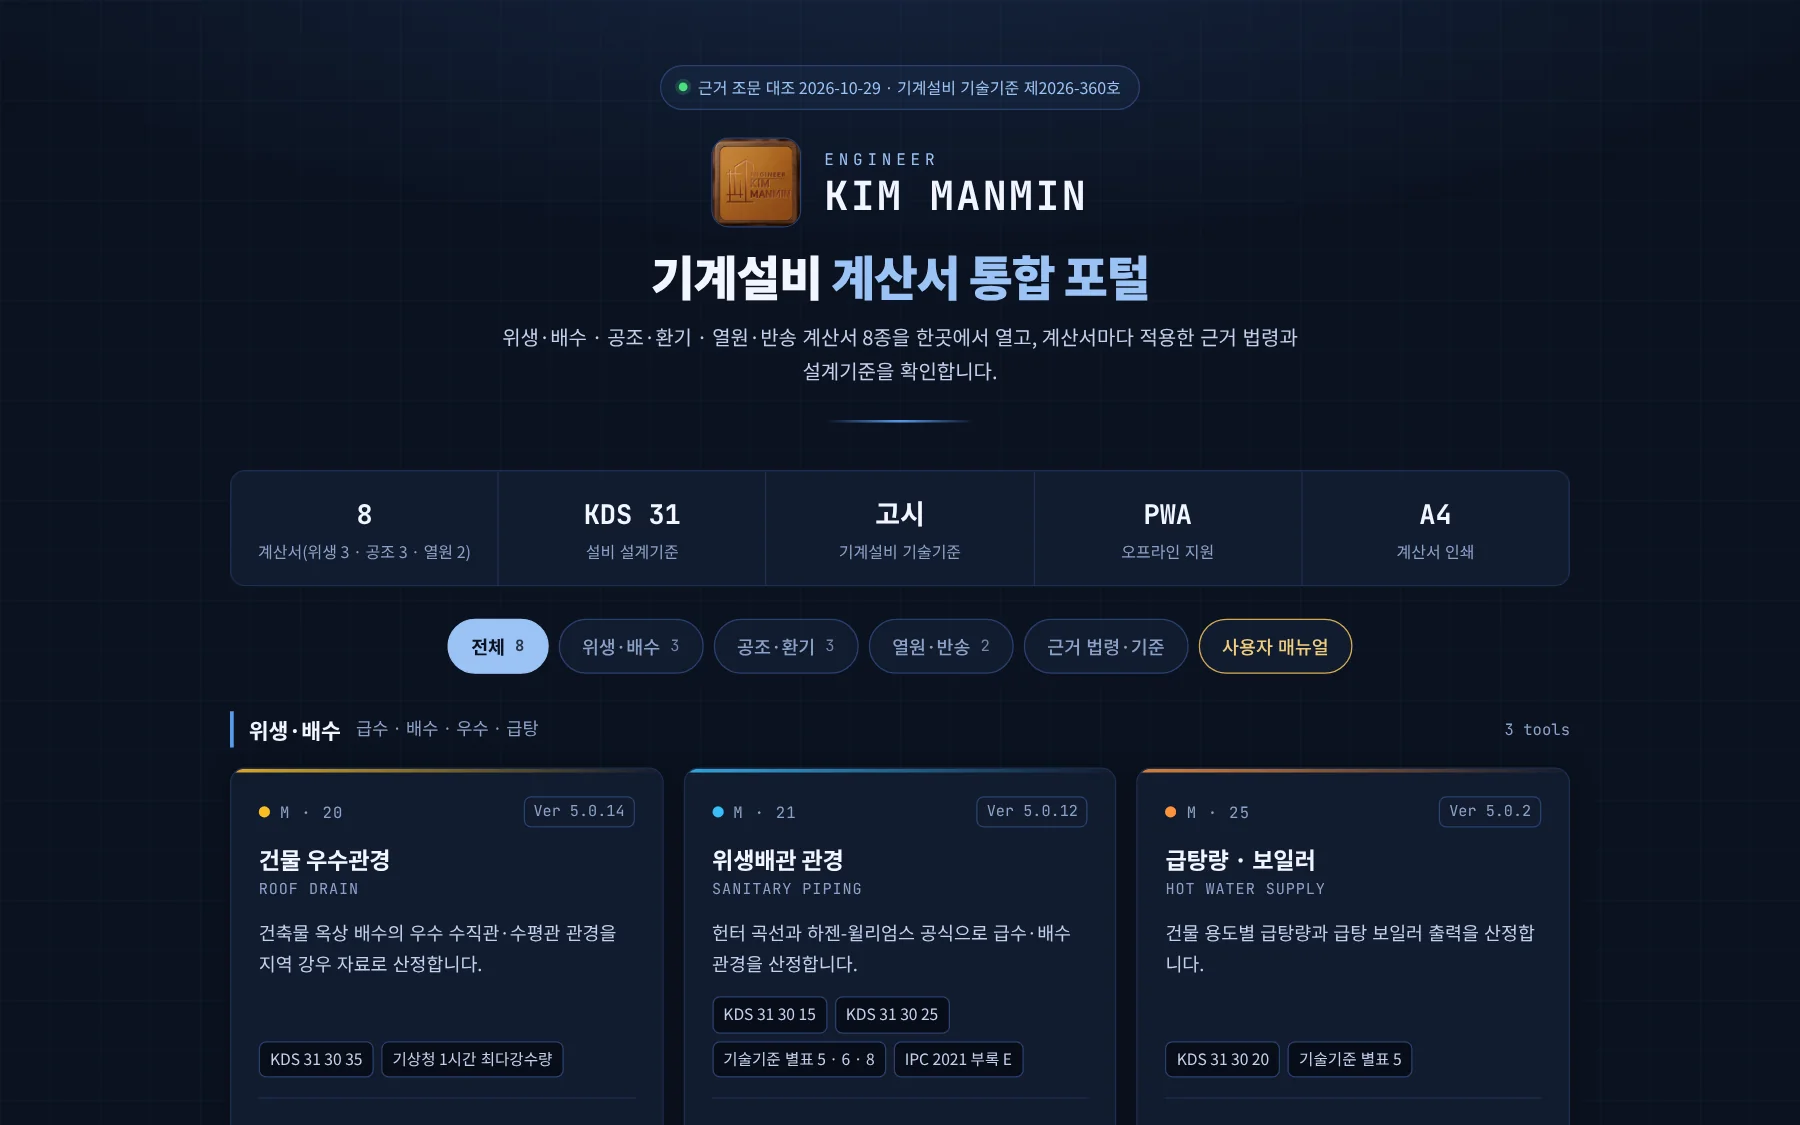
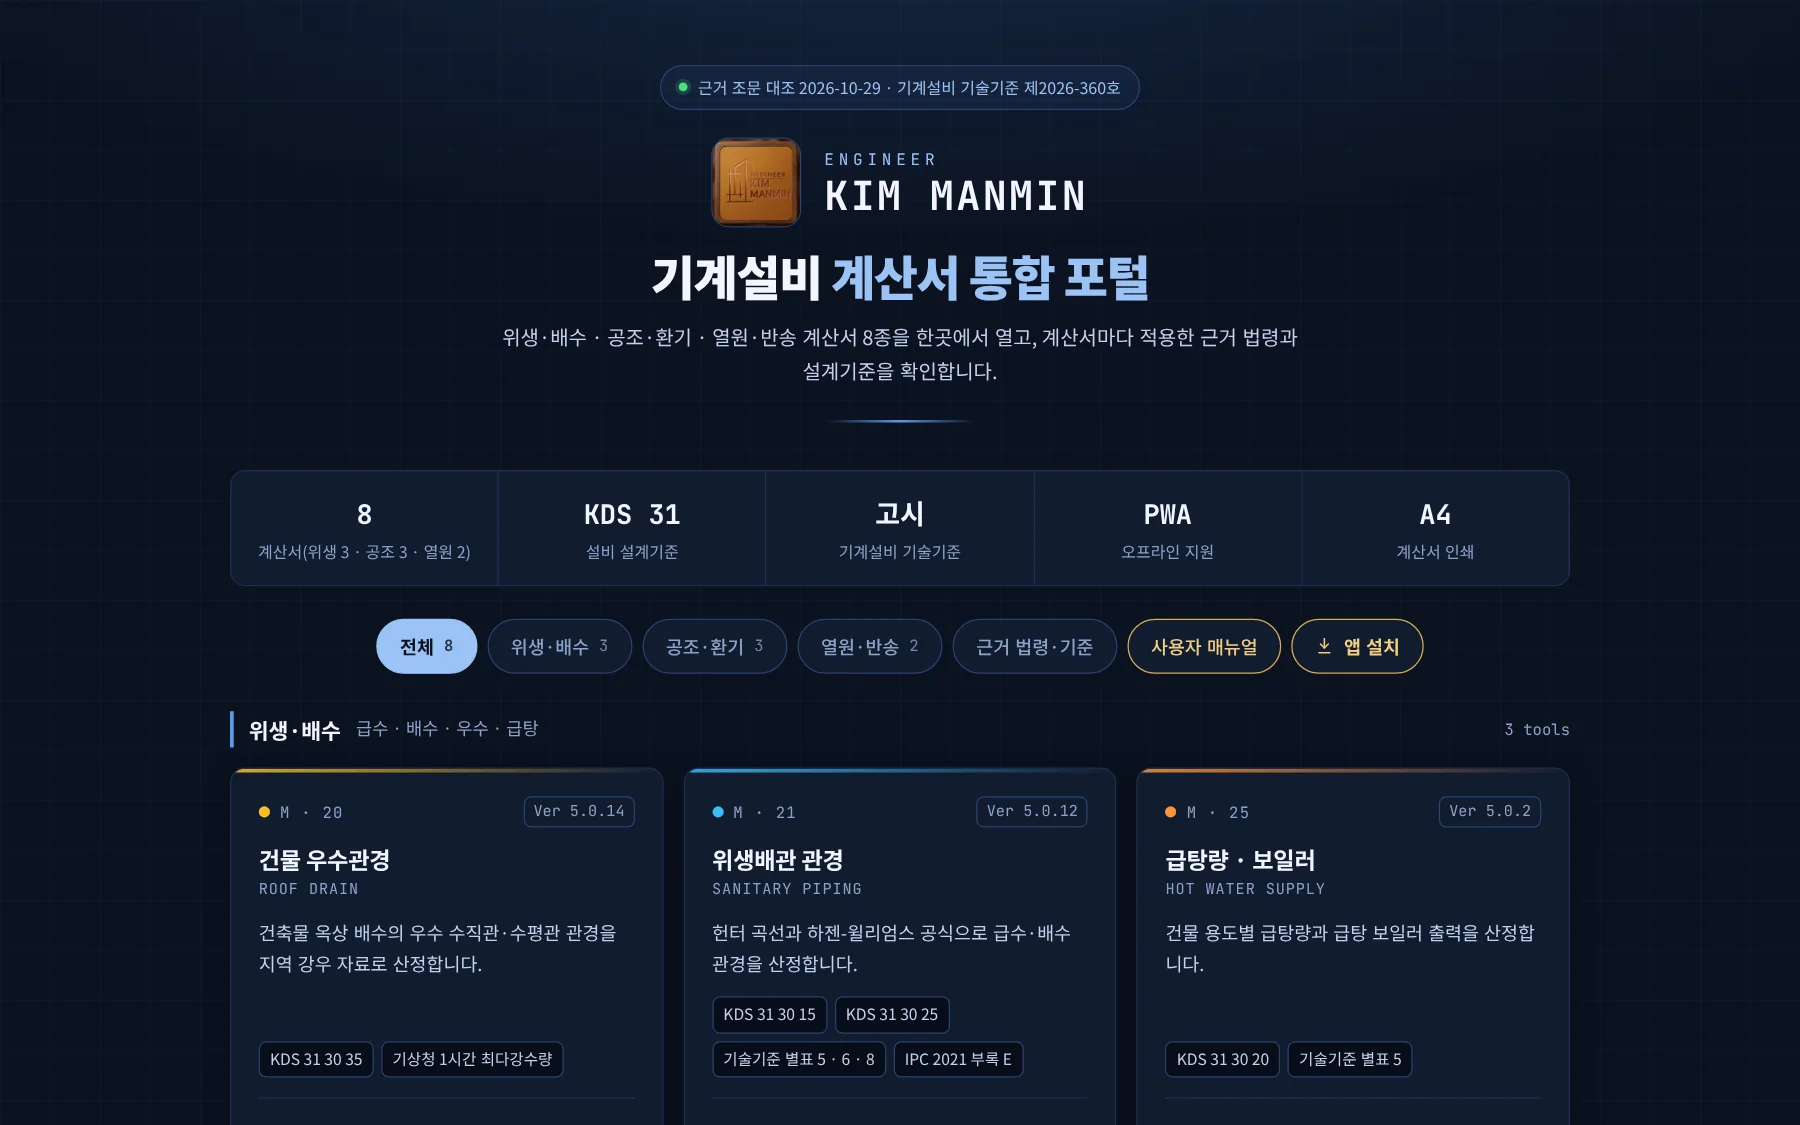
v2.17 — 기계설비 포털 카드 Ver 1.0.2 · 전체 화면 이미지(앱 설치 단추) · sw v2.17
Claude-Session: https://claude.ai/code/session_011J3Wsq5rChoooR995rjntt

Changed region(s): [[0.1867, 0.5289, 0.7778, 0.6222]]

diff --git a/index.html b/index.html
@@ -5053,13 +5053,13 @@ a:hover>.btn-arw,button:hover>.btn-arw{transform:translateX(4px)}
             <div style="border:1px solid var(--line);border-radius:4px;overflow:hidden;background:var(--bg-deep);position:relative;cursor:pointer;"
                  onclick="openWcImg('./images/기계_통합포털.webp', '기계설비 계산서 통합 포털', 'https://manminkim-eng.github.io/mech-portal/')">
               <img src="./images/기계_통합포털.webp"
-                   alt="기계설비 계산서 통합 포털 전체 화면 — MANMIN Ver 1.0.1"
+                   alt="기계설비 계산서 통합 포털 전체 화면 — MANMIN Ver 1.0.2"
                    style="width:100%;height:auto;display:block;object-fit:cover;transition:transform .3s;"
                    onmouseover="this.style.transform='scale(1.02)'"
                    onmouseout="this.style.transform='scale(1)'" loading="lazy" decoding="async" width="1800" height="1125"/>
               <div style="position:absolute;top:8px;right:8px;font-family:var(--f-mono);font-size:.58rem;
                           background:rgba(9,13,24,.85);color:#5a9ae8;border:1px solid rgba(90,154,232,.3);
-                          padding:2px 7px;letter-spacing:.06em;">Ver 1.0.1</div>
+                          padding:2px 7px;letter-spacing:.06em;">Ver 1.0.2</div>
             </div>
             <p style="font-size:.82rem;color:var(--t-sub);line-height:1.72;">포털 첫 화면 — 계산서 8종을 위생·배수 · 공조·환기 · 열원·반송으로 분류하고, 카드마다 근거 기준 칩 · 현재 버전 · 사용자 매뉴얼 바로가기를 제공합니다. 아래 근거표에 법령 · 고시 번호와 시행일을 정리했습니다.</p>
           </div>
@@ -5073,7 +5073,7 @@ a:hover>.btn-arw,button:hover>.btn-arw{transform:translateX(4px)}
             manminkim-eng.github.io/mech-portal →
           </a>
           
-          <span class="wdate">2026 · 8종 통합 · Ver 1.0.1</span>
+          <span class="wdate">2026 · 8종 통합 · Ver 1.0.2</span>
         </div>
       </div>
 

diff --git a/sw.js b/sw.js
@@ -3,7 +3,7 @@
    김만민 건축사 — 대성건축사사무소
    ══════════════════════════════════════════════════════ */
 
-const CACHE_VERSION = 'manmin-v2.16';   /* 2026-10-30 기계설비 통합 포털 M-ALL 카드 (종전 v2.15 디자인 REV.03) */
+const CACHE_VERSION = 'manmin-v2.17';   /* 2026-10-30 기계설비 포털 카드 Ver 1.0.2 · 전체 화면 이미지(앱 설치 단추) (종전 v2.16 M-ALL 카드) */
 const OFFLINE_PAGE  = './offline.html';
 
 /* ── 사전 캐시 목록 (앱 셸) ── */
